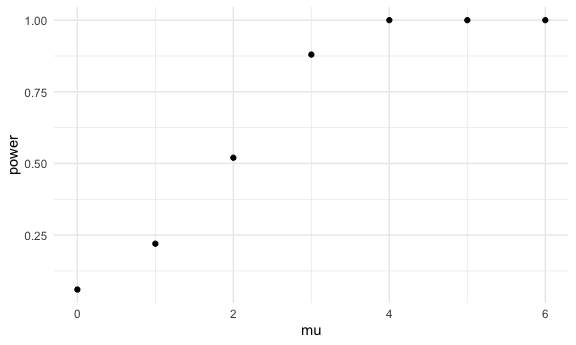
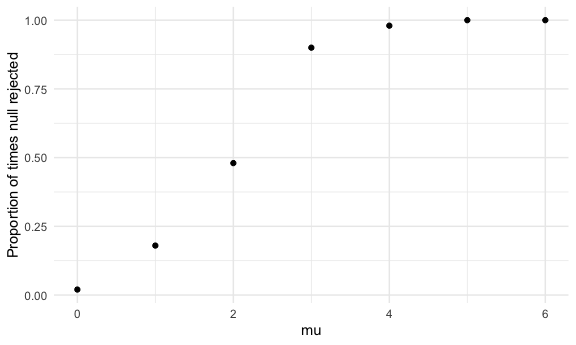
work on graphs for problems 2 and 3

diff --git a/p8105_hw5_rht2112.md b/p8105_hw5_rht2112.md
@@ -96,18 +96,6 @@ import one dataset
 data_1 = read_csv("./lda_data/con_01.csv")
 ```
 
-    ## Parsed with column specification:
-    ## cols(
-    ##   week_1 = col_double(),
-    ##   week_2 = col_double(),
-    ##   week_3 = col_double(),
-    ##   week_4 = col_double(),
-    ##   week_5 = col_double(),
-    ##   week_6 = col_double(),
-    ##   week_7 = col_double(),
-    ##   week_8 = col_double()
-    ## )
-
 tidy dataset
 
 ``` r
@@ -123,6 +111,7 @@ path_df =
   select(-file) %>% 
   mutate(
     arm = str_replace(arm, "data/", ""),
+    arm = if_else(arm == "exp", "experimental", "control"),
     ID = str_replace(ID, ".csv", ""),
     ID = as.numeric(ID)
   ) %>% 
@@ -136,235 +125,22 @@ path_df =
     week = as.numeric(week))
 ```
 
-    ## Parsed with column specification:
-    ## cols(
-    ##   week_1 = col_double(),
-    ##   week_2 = col_double(),
-    ##   week_3 = col_double(),
-    ##   week_4 = col_double(),
-    ##   week_5 = col_double(),
-    ##   week_6 = col_double(),
-    ##   week_7 = col_double(),
-    ##   week_8 = col_double()
-    ## )
-    ## Parsed with column specification:
-    ## cols(
-    ##   week_1 = col_double(),
-    ##   week_2 = col_double(),
-    ##   week_3 = col_double(),
-    ##   week_4 = col_double(),
-    ##   week_5 = col_double(),
-    ##   week_6 = col_double(),
-    ##   week_7 = col_double(),
-    ##   week_8 = col_double()
-    ## )
-    ## Parsed with column specification:
-    ## cols(
-    ##   week_1 = col_double(),
-    ##   week_2 = col_double(),
-    ##   week_3 = col_double(),
-    ##   week_4 = col_double(),
-    ##   week_5 = col_double(),
-    ##   week_6 = col_double(),
-    ##   week_7 = col_double(),
-    ##   week_8 = col_double()
-    ## )
-    ## Parsed with column specification:
-    ## cols(
-    ##   week_1 = col_double(),
-    ##   week_2 = col_double(),
-    ##   week_3 = col_double(),
-    ##   week_4 = col_double(),
-    ##   week_5 = col_double(),
-    ##   week_6 = col_double(),
-    ##   week_7 = col_double(),
-    ##   week_8 = col_double()
-    ## )
-    ## Parsed with column specification:
-    ## cols(
-    ##   week_1 = col_double(),
-    ##   week_2 = col_double(),
-    ##   week_3 = col_double(),
-    ##   week_4 = col_double(),
-    ##   week_5 = col_double(),
-    ##   week_6 = col_double(),
-    ##   week_7 = col_double(),
-    ##   week_8 = col_double()
-    ## )
-    ## Parsed with column specification:
-    ## cols(
-    ##   week_1 = col_double(),
-    ##   week_2 = col_double(),
-    ##   week_3 = col_double(),
-    ##   week_4 = col_double(),
-    ##   week_5 = col_double(),
-    ##   week_6 = col_double(),
-    ##   week_7 = col_double(),
-    ##   week_8 = col_double()
-    ## )
-    ## Parsed with column specification:
-    ## cols(
-    ##   week_1 = col_double(),
-    ##   week_2 = col_double(),
-    ##   week_3 = col_double(),
-    ##   week_4 = col_double(),
-    ##   week_5 = col_double(),
-    ##   week_6 = col_double(),
-    ##   week_7 = col_double(),
-    ##   week_8 = col_double()
-    ## )
-    ## Parsed with column specification:
-    ## cols(
-    ##   week_1 = col_double(),
-    ##   week_2 = col_double(),
-    ##   week_3 = col_double(),
-    ##   week_4 = col_double(),
-    ##   week_5 = col_double(),
-    ##   week_6 = col_double(),
-    ##   week_7 = col_double(),
-    ##   week_8 = col_double()
-    ## )
-    ## Parsed with column specification:
-    ## cols(
-    ##   week_1 = col_double(),
-    ##   week_2 = col_double(),
-    ##   week_3 = col_double(),
-    ##   week_4 = col_double(),
-    ##   week_5 = col_double(),
-    ##   week_6 = col_double(),
-    ##   week_7 = col_double(),
-    ##   week_8 = col_double()
-    ## )
-    ## Parsed with column specification:
-    ## cols(
-    ##   week_1 = col_double(),
-    ##   week_2 = col_double(),
-    ##   week_3 = col_double(),
-    ##   week_4 = col_double(),
-    ##   week_5 = col_double(),
-    ##   week_6 = col_double(),
-    ##   week_7 = col_double(),
-    ##   week_8 = col_double()
-    ## )
-    ## Parsed with column specification:
-    ## cols(
-    ##   week_1 = col_double(),
-    ##   week_2 = col_double(),
-    ##   week_3 = col_double(),
-    ##   week_4 = col_double(),
-    ##   week_5 = col_double(),
-    ##   week_6 = col_double(),
-    ##   week_7 = col_double(),
-    ##   week_8 = col_double()
-    ## )
-    ## Parsed with column specification:
-    ## cols(
-    ##   week_1 = col_double(),
-    ##   week_2 = col_double(),
-    ##   week_3 = col_double(),
-    ##   week_4 = col_double(),
-    ##   week_5 = col_double(),
-    ##   week_6 = col_double(),
-    ##   week_7 = col_double(),
-    ##   week_8 = col_double()
-    ## )
-    ## Parsed with column specification:
-    ## cols(
-    ##   week_1 = col_double(),
-    ##   week_2 = col_double(),
-    ##   week_3 = col_double(),
-    ##   week_4 = col_double(),
-    ##   week_5 = col_double(),
-    ##   week_6 = col_double(),
-    ##   week_7 = col_double(),
-    ##   week_8 = col_double()
-    ## )
-    ## Parsed with column specification:
-    ## cols(
-    ##   week_1 = col_double(),
-    ##   week_2 = col_double(),
-    ##   week_3 = col_double(),
-    ##   week_4 = col_double(),
-    ##   week_5 = col_double(),
-    ##   week_6 = col_double(),
-    ##   week_7 = col_double(),
-    ##   week_8 = col_double()
-    ## )
-    ## Parsed with column specification:
-    ## cols(
-    ##   week_1 = col_double(),
-    ##   week_2 = col_double(),
-    ##   week_3 = col_double(),
-    ##   week_4 = col_double(),
-    ##   week_5 = col_double(),
-    ##   week_6 = col_double(),
-    ##   week_7 = col_double(),
-    ##   week_8 = col_double()
-    ## )
-    ## Parsed with column specification:
-    ## cols(
-    ##   week_1 = col_double(),
-    ##   week_2 = col_double(),
-    ##   week_3 = col_double(),
-    ##   week_4 = col_double(),
-    ##   week_5 = col_double(),
-    ##   week_6 = col_double(),
-    ##   week_7 = col_double(),
-    ##   week_8 = col_double()
-    ## )
-    ## Parsed with column specification:
-    ## cols(
-    ##   week_1 = col_double(),
-    ##   week_2 = col_double(),
-    ##   week_3 = col_double(),
-    ##   week_4 = col_double(),
-    ##   week_5 = col_double(),
-    ##   week_6 = col_double(),
-    ##   week_7 = col_double(),
-    ##   week_8 = col_double()
-    ## )
-    ## Parsed with column specification:
-    ## cols(
-    ##   week_1 = col_double(),
-    ##   week_2 = col_double(),
-    ##   week_3 = col_double(),
-    ##   week_4 = col_double(),
-    ##   week_5 = col_double(),
-    ##   week_6 = col_double(),
-    ##   week_7 = col_double(),
-    ##   week_8 = col_double()
-    ## )
-    ## Parsed with column specification:
-    ## cols(
-    ##   week_1 = col_double(),
-    ##   week_2 = col_double(),
-    ##   week_3 = col_double(),
-    ##   week_4 = col_double(),
-    ##   week_5 = col_double(),
-    ##   week_6 = col_double(),
-    ##   week_7 = col_double(),
-    ##   week_8 = col_double()
-    ## )
-    ## Parsed with column specification:
-    ## cols(
-    ##   week_1 = col_double(),
-    ##   week_2 = col_double(),
-    ##   week_3 = col_double(),
-    ##   week_4 = col_double(),
-    ##   week_5 = col_double(),
-    ##   week_6 = col_double(),
-    ##   week_7 = col_double(),
-    ##   week_8 = col_double()
-    ## )
-
 spaghetti plot
 
 ``` r
-# how can I make the plot show all 20 people instead of just the 10 in the experimental arm?
 spaghetti <- path_df %>% 
-  ggplot(aes(x = week, y = outcome, color = arm, group = ID)) + 
-  geom_line()
+  ggplot(aes(x = week, y = outcome, group = ID)) + 
+  geom_line() +
+  facet_grid(. ~arm)
+
+spaghetti
 ```
+
+<img src="p8105_hw5_rht2112_files/figure-gfm/unnamed-chunk-8-1.png" width="90%" />
+
+While the values of the outcome for the control group remained stable
+over the 8 weeks of the experiment, the values of the outcome for the
+experimental group increased for each subject.
 
 ## Problem 3
 
@@ -412,7 +188,10 @@ power = tibble(
 ) %>% 
   unnest(cols = power) %>% 
   ggplot(aes(x = mu, y = power)) +
-  geom_point()
+  geom_point() +
+  labs(x = "mu",
+       y = "Proportion of times null rejected")
+
 
 power
 ```
@@ -432,11 +211,41 @@ mu_hat = tibble(
 ) %>% 
   unnest(cols = mu_hat) %>% 
   ggplot(aes(x = mu, y = mu_hat)) +
-  geom_point()
-
-mu_hat
+  geom_point() +
+  ggtitle("all samples")
 ```
 
-<img src="p8105_hw5_rht2112_files/figure-gfm/unnamed-chunk-11-1.png" width="90%" />
+find average estimate of mu\_hat including only samples where the null
+was rejected
 
-plot results
+``` r
+mu_0 = sim_results$estimate[[1]] %>% filter(rejected == 1) %>% average()
+mu_1 = sim_results$estimate[[2]] %>% filter(rejected == 1) %>% average()
+mu_2 = sim_results$estimate[[3]] %>% filter(rejected == 1) %>% average()
+mu_3 = sim_results$estimate[[4]] %>% filter(rejected == 1) %>% average()
+mu_4 = sim_results$estimate[[5]] %>% filter(rejected == 1) %>% average()
+mu_5 = sim_results$estimate[[6]] %>% filter(rejected == 1) %>% average()
+mu_6 = sim_results$estimate[[7]] %>% filter(rejected == 1) %>% average()
+
+rejected =
+  tibble(mu = c(0, 1, 2, 3, 4, 5, 6),
+         mu_hat = c(mu_0, mu_1, mu_2, mu_3, mu_4, mu_5, mu_6)) %>% 
+  ggplot(aes(x = mu, y = mu_hat)) +
+  geom_point() +
+  ggtitle("samples where null was rejected")
+
+mu_hat + rejected
+```
+
+<img src="p8105_hw5_rht2112_files/figure-gfm/unnamed-chunk-12-1.png" width="90%" />
+
+For higher values of mu, the average estimated sample mean among samples
+where the null was rejected is very similar to to the average estimated
+sample mean among all samples, but this is less true at mu = 0 and mu =
+1 . This is because there are fewer samples where the null rejected at
+low values of mu, since our null hypothesis was mu = 0. Therefore, at
+lower values of mu, there is more noise among samples where the null was
+rejected, leading to unstable estimates of of mu\_hat. However, at
+higher values of mu, the null was rejected for most of the samples, so
+mu\_hat could be estimated using a more of the samples, leading to more
+stable estimates of mu\_hat, the further away mu was from zero.
